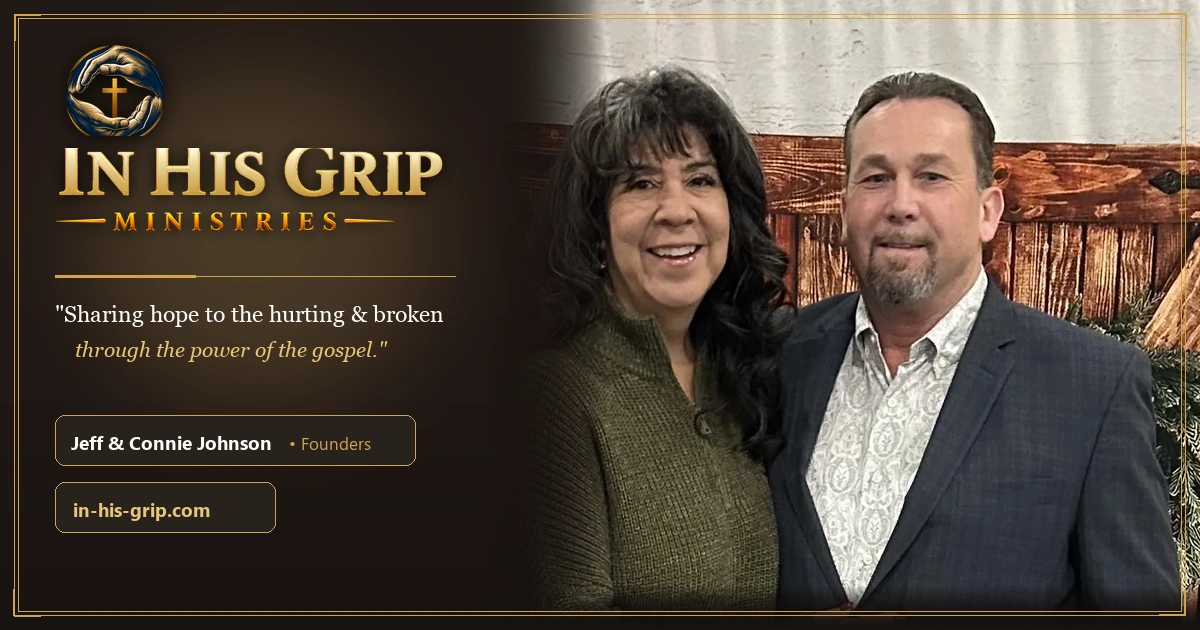
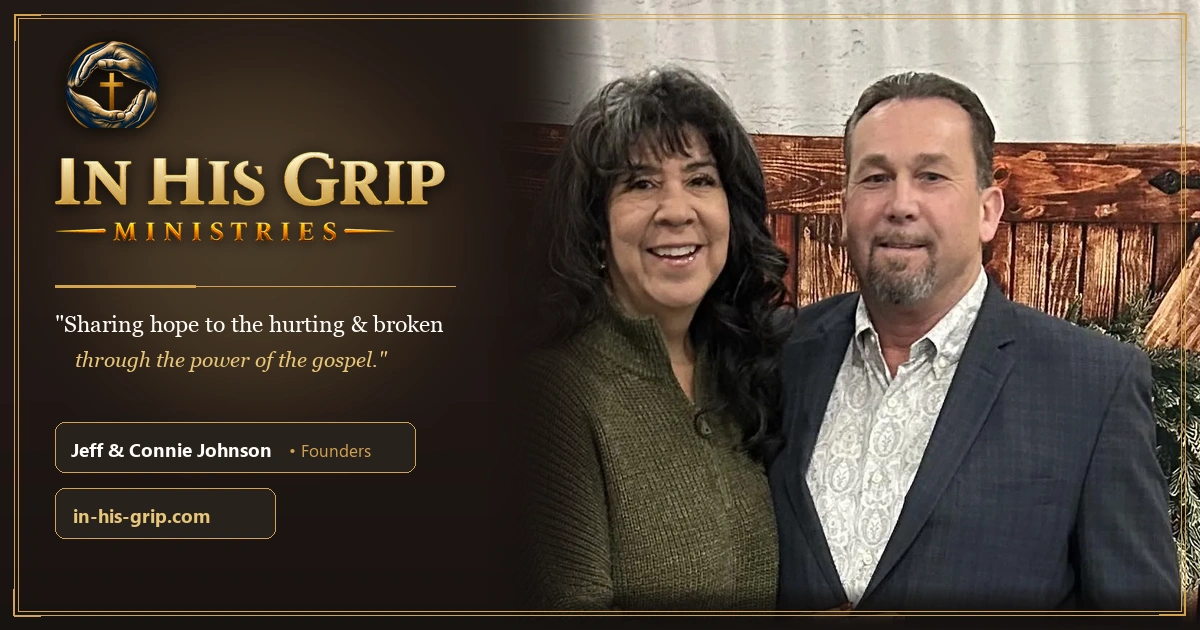
fix(og-image): restore complete top curve of capital G and serifs, adjust vertical spacing

Changed region(s): [[0.0308, 0.0603, 0.37, 0.3921], [0.0308, 0.4222, 0.37, 0.6032], [0.0617, 0.6333, 0.3392, 0.8746]]

diff --git a/create_og_images.py b/create_og_images.py
@@ -98,59 +98,59 @@ def create_variant_1():
     col_x = 55
 
     # 1. Emblem
-    emb_target_h = 92
+    emb_target_h = 88
     emb_target_w = int(emblem.width * (emb_target_h / emblem.height))
     emb_scaled = emblem.resize((emb_target_w, emb_target_h), Image.Resampling.LANCZOS)
     
     # Soft drop shadow
     emb_shadow = Image.new('RGBA', (W, H), (0, 0, 0, 0))
-    emb_shadow.paste(emb_scaled, (col_x, 46), emb_scaled)
+    emb_shadow.paste(emb_scaled, (col_x, 42), emb_scaled)
     shadow_mask = emb_shadow.split()[3].filter(ImageFilter.GaussianBlur(10))
     card.paste((0, 0, 0, 150), (0, 0), shadow_mask)
-    card.paste(emb_scaled, (col_x, 44), emb_scaled)
+    card.paste(emb_scaled, (col_x, 40), emb_scaled)
 
-    # 2. Title & Ministries (with crisp drop shadow)
+    # 2. Title & Ministries (with crisp drop shadow & comfortable vertical room)
     title_target_w = 390
     title_target_h = int(title.height * (title_target_w / title.width))
     title_scaled = title.resize((title_target_w, title_target_h), Image.Resampling.LANCZOS)
     
     t_shadow = Image.new('RGBA', (W, H), (0, 0, 0, 0))
-    t_shadow.paste(title_scaled, (col_x, 150), title_scaled)
+    t_shadow.paste(title_scaled, (col_x, 154), title_scaled)
     t_shadow_mask = t_shadow.split()[3].filter(ImageFilter.GaussianBlur(8))
     card.paste((0, 0, 0, 180), (0, 0), t_shadow_mask)
-    card.paste(title_scaled, (col_x, 148), title_scaled)
+    card.paste(title_scaled, (col_x, 152), title_scaled)
 
     min_target_w = 340
     min_target_h = int(ministries.height * (min_target_w / ministries.width))
     min_scaled = ministries.resize((min_target_w, min_target_h), Image.Resampling.LANCZOS)
     
     m_shadow = Image.new('RGBA', (W, H), (0, 0, 0, 0))
-    m_shadow.paste(min_scaled, (col_x, 214), min_scaled)
+    m_shadow.paste(min_scaled, (col_x, 224), min_scaled)
     m_shadow_mask = m_shadow.split()[3].filter(ImageFilter.GaussianBlur(6))
     card.paste((0, 0, 0, 180), (0, 0), m_shadow_mask)
-    card.paste(min_scaled, (col_x, 212), min_scaled)
+    card.paste(min_scaled, (col_x, 222), min_scaled)
 
     # 3. Gold divider line
     draw = ImageDraw.Draw(card)
-    draw.line([(col_x, 276), (col_x + 140, 276)], fill=(212, 162, 76, 255), width=3)
-    draw.line([(col_x + 140, 276), (col_x + 400, 276)], fill=(212, 162, 76, 90), width=1)
+    draw.line([(col_x, 286), (col_x + 140, 286)], fill=(212, 162, 76, 255), width=3)
+    draw.line([(col_x + 140, 286), (col_x + 400, 286)], fill=(212, 162, 76, 90), width=1)
 
     # 4. Mission Tagline
     tagline_1 = '"Sharing hope to the hurting & broken'
     tagline_2 = 'through the power of the gospel."'
-    draw.text((col_x, 300), tagline_1, fill=(254, 252, 249, 245), font=font_serif_md)
-    draw.text((col_x + 20, 337), tagline_2, fill=(232, 197, 118, 240), font=font_serif_it)
+    draw.text((col_x, 310), tagline_1, fill=(254, 252, 249, 245), font=font_serif_md)
+    draw.text((col_x + 20, 347), tagline_2, fill=(232, 197, 118, 240), font=font_serif_it)
 
     # 5. Badges
     badge_bg = (40, 34, 30, 230)
     # Founders badge
-    draw.rounded_rectangle([col_x, 415, col_x + 360, 465], radius=10, fill=badge_bg, outline=(212, 162, 76, 140), width=1)
-    draw.text((col_x + 16, 429), "Jeff & Connie Johnson", fill=(254, 252, 249, 255), font=font_sans_bold)
-    draw.text((col_x + 234, 431), "• Founders", fill=(212, 162, 76, 220), font=font_sans_med)
+    draw.rounded_rectangle([col_x, 422, col_x + 360, 472], radius=10, fill=badge_bg, outline=(212, 162, 76, 140), width=1)
+    draw.text((col_x + 16, 436), "Jeff & Connie Johnson", fill=(254, 252, 249, 255), font=font_sans_bold)
+    draw.text((col_x + 234, 438), "• Founders", fill=(212, 162, 76, 220), font=font_sans_med)
 
     # Website badge
-    draw.rounded_rectangle([col_x, 482, col_x + 220, 532], radius=10, fill=badge_bg, outline=(212, 162, 76, 140), width=1)
-    draw.text((col_x + 18, 496), "in-his-grip.com", fill=(232, 197, 118, 255), font=font_sans_bold)
+    draw.rounded_rectangle([col_x, 488, col_x + 220, 538], radius=10, fill=badge_bg, outline=(212, 162, 76, 140), width=1)
+    draw.text((col_x + 18, 502), "in-his-grip.com", fill=(232, 197, 118, 255), font=font_sans_bold)
 
     # Outer decorative luxury frame
     draw.rectangle([14, 14, W-15, H-15], outline=(212, 162, 76, 85), width=1)
